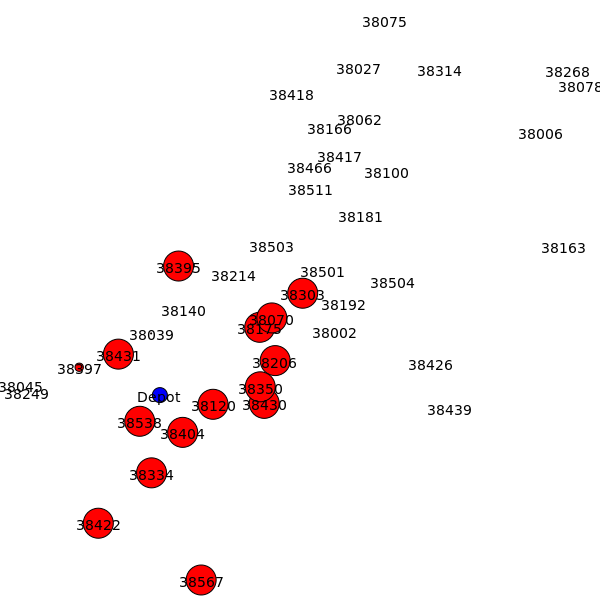
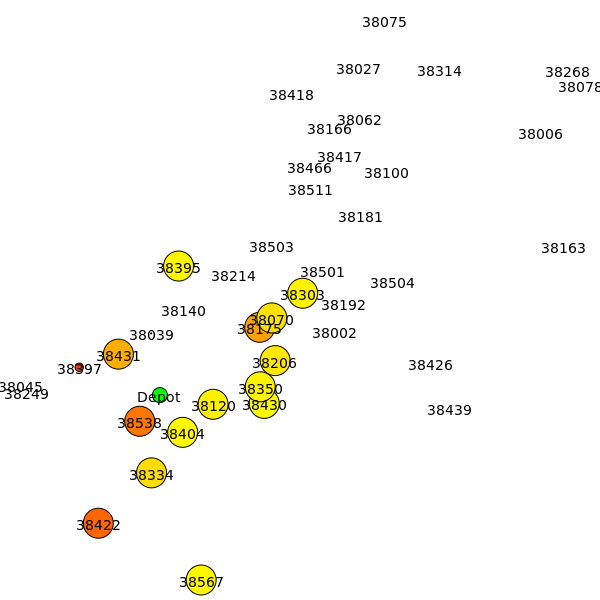
LT final

diff --git a/LT/project/print_sol.py b/LT/project/print_sol.py
@@ -48,6 +48,10 @@ X = [x_1, x_2, x_3, x_4, x_5, x_6, x_7]
 Yp = [[20, 0, 21, 12, 28, 5], [22, 36, 38, 11, 39, 14, 1, 28, 19], [25, 16, 40, 10, 24, 6, 33, 41, 9, 22], [3, 26, 30], [25, 7, 2], [23, 30, 35, 2, 27, 15, 18, 8, 17], [23, 29, 32, 4, 31, 13, 34, 37]]
 Xp = [[1.0, 1.0, 1.0, 1.0, 0.6556399132321041, 1.0], [0.7230721198876053, 1.0, 1.0, 1.0, 1.0, 1.0, 1.0, 0.34436008676789587, 1.0], [0.2794049279404928, 1.0, 1.0, 1.0, 1.0, 1.0, 1.0, 1.0, 1.0, 0.2769278801123946], [1.0, 1.0, 0.7220324508966696], [0.7205950720595072, 1.0, 0.961892247043364], [0.24876948318293685, 0.2779675491033305, 1.0, 0.03810775295663601, 1.0, 1.0, 1.0, 1.0, 1.0], [0.7512305168170632, 1.0, 1.0, 1.0, 1.0, 1.0, 1.0, 1.0]]
  
+#anas sol (12)
+Y3 = [[9, 0], [1, 5], [1, 11, 9, 10, 6, 8], [4, 3, 2], [7], [2, 7], [2, 8], [2]]
+X3 = [[0.09352226720647773, 1.0], [0.67570385818561, 1.0], [0.32429614181439, 1.0, 0.9064777327935223, 1.0, 1.0, 0.0749776852127343], [1.0, 1.0, 0.5029566360052562], [0.5197336561743341], [0.10709592641261498, 0.48026634382566585], [0.38896189224704336, 0.9250223147872657], [0.0009855453350854138]]
+
 raw_data = [['Allevard', 38006, 25.63, 4062.0, '158', 326, 356,6.0744406,45.3934726],
 ['Barraux', 38027, 11.13, 1918.0, '172', 223, 80,5.9773523,45.4337691],
 ['Bernin', 38039, 7.67, 3044.0, '397', 84, 343,5.8664744,45.2693836],
@@ -92,8 +96,38 @@ raw_data = [['Allevard', 38006, 25.63, 4062.0, '158', 326, 356,6.0744406,45.3934
 ['Theys', 38504, 35.77, 1980.0, '55', 254, 299,5.9957494,45.3015475] ]
 
 #
+SOL = 2
+sol2_num = len(raw_data)
+sol2_index = 42
+sol1_num = 12
+sol1_index = 12
+sol1_msg = 'MILP - 12 cities'
+sol2_msg = 'Heuristic - 42 cities'
+sol3_msg = 'Heuristic - 12 cities'
 
-selected_cities = [i for i in range(len(raw_data))]
+name_type = 'code'
+
+if SOL == 2:
+    sol_num = sol2_num
+    sol_index = sol2_index
+    X_SOL, Y_SOL = Xp, Yp
+    gifname = 'sol_2'
+    sol_msg = sol2_msg
+elif SOL == 3:
+    sol_num = sol1_num
+    sol_index = sol1_index 
+    X_SOL, Y_SOL = X3, Y3
+    gifname = 'sol_3'
+    sol_msg = sol3_msg
+else:
+    sol_num = sol1_num
+    sol_index = sol1_index 
+    X_SOL, Y_SOL = X, Y
+    gifname = 'sol_1'
+    sol_msg = sol1_msg
+
+
+selected_cities = [i for i in range(sol_num)] #len(raw_data))]
 city_col = 'black'
 active_col = 'red'
 depot_col = 'blue'
@@ -103,9 +137,11 @@ inactive_edge_col = 'black'
 
 images_loc = 'LT/project/images/'
 gif_loc = 'LT/project/gif/'
-name_type = 'code'  #'name'
+
 
 def main():
+    print(sol_msg)
+
     # 1
     useful_entries =[]
     for i in selected_cities:
@@ -120,11 +156,14 @@ def main():
             entry[0] = str( entry[0])
 
 
+
     #2
     GPSX, GPSY = [], []
+    VCOL = []
     for entry in useful_entries:
         GPSX.append(entry[-2])
         GPSY.append(entry[-1])
+        VCOL.append(v_color(entry[3], 9000, 150))
 
     xmax, xmin, ymin, ymax = min(GPSX), max(GPSX), min(GPSY), max(GPSY)
 
@@ -138,8 +177,8 @@ def main():
 
     layout1 = g.layout('rt', 2)
 
-    print(useful_entries)
-    print(COOX)
+    #print(useful_entries)
+    #print(COOX)
 
     for i in range(len(layout1)):
         layout1[i] = (-COOX[i], -COOY[i])
@@ -161,8 +200,46 @@ def main():
 
     #name = images_loc + 'test.png'
     #igraph.plot(g, name, layout = layout1, vertex_color = [vs_dict[v_type]  for v_type in g.vs['type']], vertex_size = [1.7*pop_i for pop_i in Pop  ] )
-    partial_solution(Xp, Yp, useful_entries, g,layout1)
+    partial_solution(X_SOL, Y_SOL, useful_entries, g,layout1, VCOL)
 
+## functions
+def v_color(val, max, min):
+    '''
+    return the color to give to a vertex. 
+    '''
+
+#double resultRed = color1.red + percent * (color2.red - color1.red);
+#double resultGreen = color1.green + percent * (color2.green - color1.green);
+#double resultBlue = color1.blue + percent * (color2.blue - color1.blue);
+    p = (max - val ) / (max-min)
+    if p > 1:
+        p=1
+    if p<0:
+        p=0
+
+    col1 = [ 255, 0, 0]
+    col2 = [ 255, 255, 0]
+
+    vr = col1[0] + p*(col2[0] - col1[0])
+    vg = col1[1] + p*(col2[1] - col1[1])
+    vb = col1[2] + p*(col2[2] - col1[2])
+
+    #print(p, (vr, vg, vb))
+    #print(vr)
+    #print(hex(int(vr)).split('x')[1])
+    hr =hex(int(vr)).split('x')[1]
+    if len(hr) == 1:
+        hr = '0'+hr
+    hb =hex(int(vb)).split('x')[1]
+    if len(hb) == 1:
+        hb = '0'+hb
+    hg =hex(int(vg)).split('x')[1]
+    if len(hg) == 1:
+        hg = '0'+hg
+    
+    tmp = '#' + hr + hg + hb
+    print(tmp)
+    return tmp 
 
 def get_matrix(dim, verb = True, data = raw_data):
     k = 0
@@ -248,14 +325,14 @@ def get_gps(i, data=raw_data):
 
 ## Partial sol
 
-def partial_solution(X, Y, useful_entries,g, layout):
+def partial_solution(X, Y, useful_entries,g, layout, VCOL):
     """
     returns the value of the solution (time) and plots it as a gif.
     """
     optimal_value(X, Y, useful_entries)
-    solution_animation(X, Y, useful_entries,g, layout)
+    solution_animation(X, Y, useful_entries,g, layout, VCOL)
 
-def solution_animation(X, Y, useful_entries,g, layout1):
+def solution_animation(X, Y, useful_entries,g, layout1, VCOL):
     """
     animates as a gif the solution given.
     g is a igraph.Graph, layout is the associated layout.
@@ -268,24 +345,26 @@ def solution_animation(X, Y, useful_entries,g, layout1):
 
     g.vs[-1]["size"] = 15
 
+    VCOL[-1] = 'green'
+
 
     #print(len(useful_entries))
     #print(useful_entries)
 
     for i in range(len(Y)):
         name = images_loc +'tour_'+str(i+1)
-        tour = [42] + Y[i] + [42]
+        tour = [sol_index] + Y[i] + [sol_index]
         gp = g
         
 
-        igraph.plot(gp, name +'_1.png', layout = layout1, vertex_size = [ v["size"] for v in gp.vs  ] , vertex_color = ['red' for v in range(len(useful_entries)-1)] + ['blue'] )
+        igraph.plot(gp, name +'_1.png', layout = layout1, vertex_size = [ v["size"] for v in gp.vs  ] , vertex_color = VCOL  )#['red' for v in range(len(useful_entries)-1)] + ['blue'] )
 
         for j in range(len(tour)-1):
             #print("add edge:", str(tour[j]), str(tour[j+1]))
             gp.add_edge(    int(tour[j])  , int(tour[j+1] ) )
 
         
-        igraph.plot(gp, name+'_2.png', layout=layout1, vertex_size = [ v["size"] for v in gp.vs  ], vertex_color = ['red' for v in range(len(useful_entries)-1)] + ['blue'] )
+        igraph.plot(gp, name+'_2.png', layout=layout1, vertex_size = [ v["size"] for v in gp.vs  ], vertex_color = VCOL )#['red' for v in range(len(useful_entries)-1)] + ['blue'] )
 
         for j in range(len(Y[i])):
             v_j = Y[i][j]
@@ -310,7 +389,7 @@ def solution_animation(X, Y, useful_entries,g, layout1):
         images.append(imageio.imread(fname))
     for i in range(5):
         images.append(imageio.imread(filename_list[-1]))
-    imageio.mimsave(gif_loc + 'gif_sol_12.gif', images, duration=duration)
+    imageio.mimsave(gif_loc + gifname +'.gif', images, duration=duration)
     
 
 
